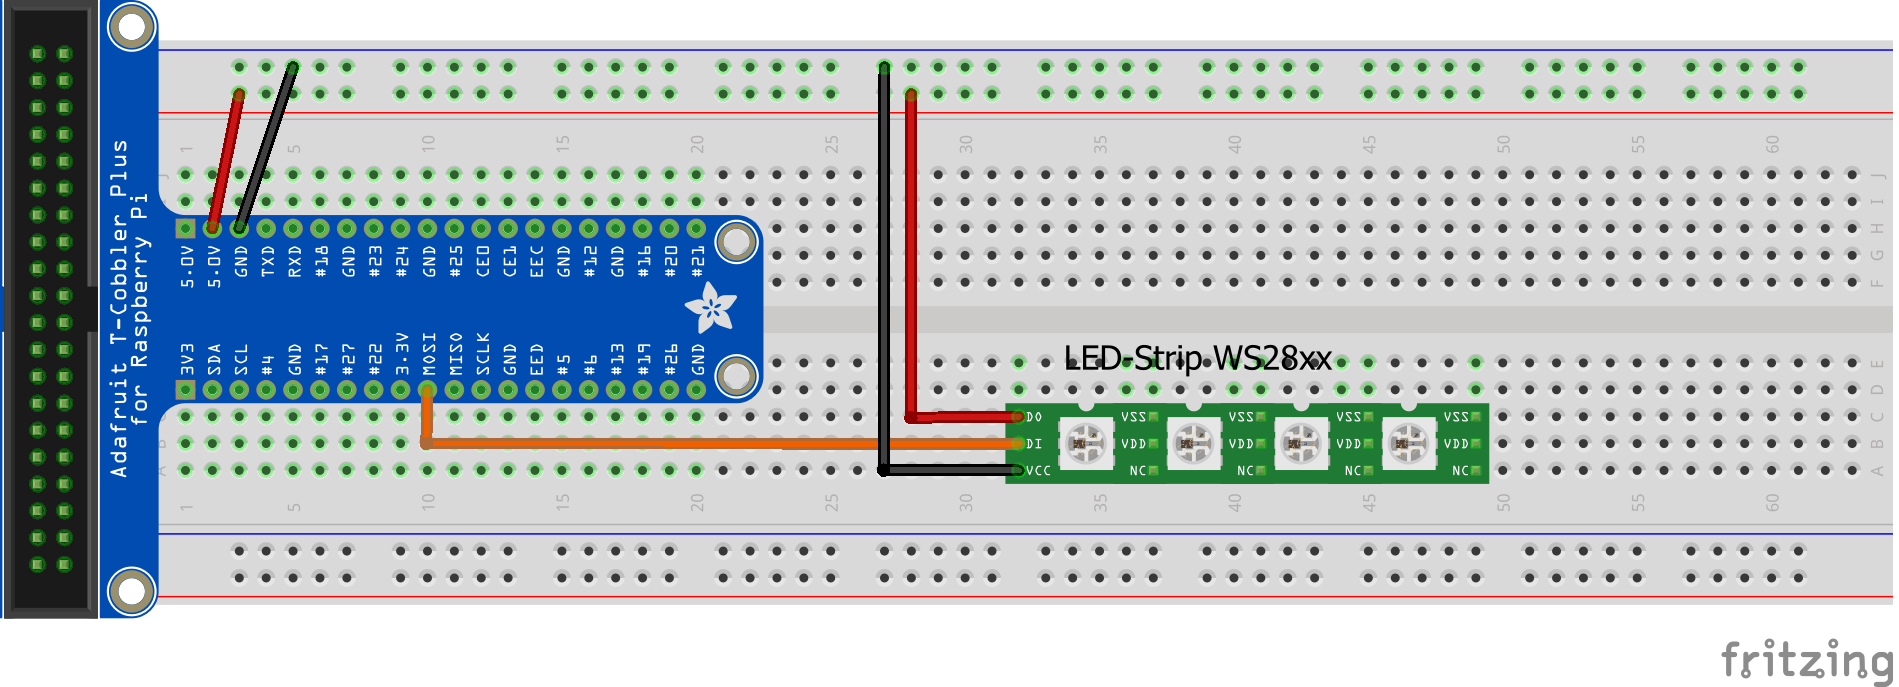
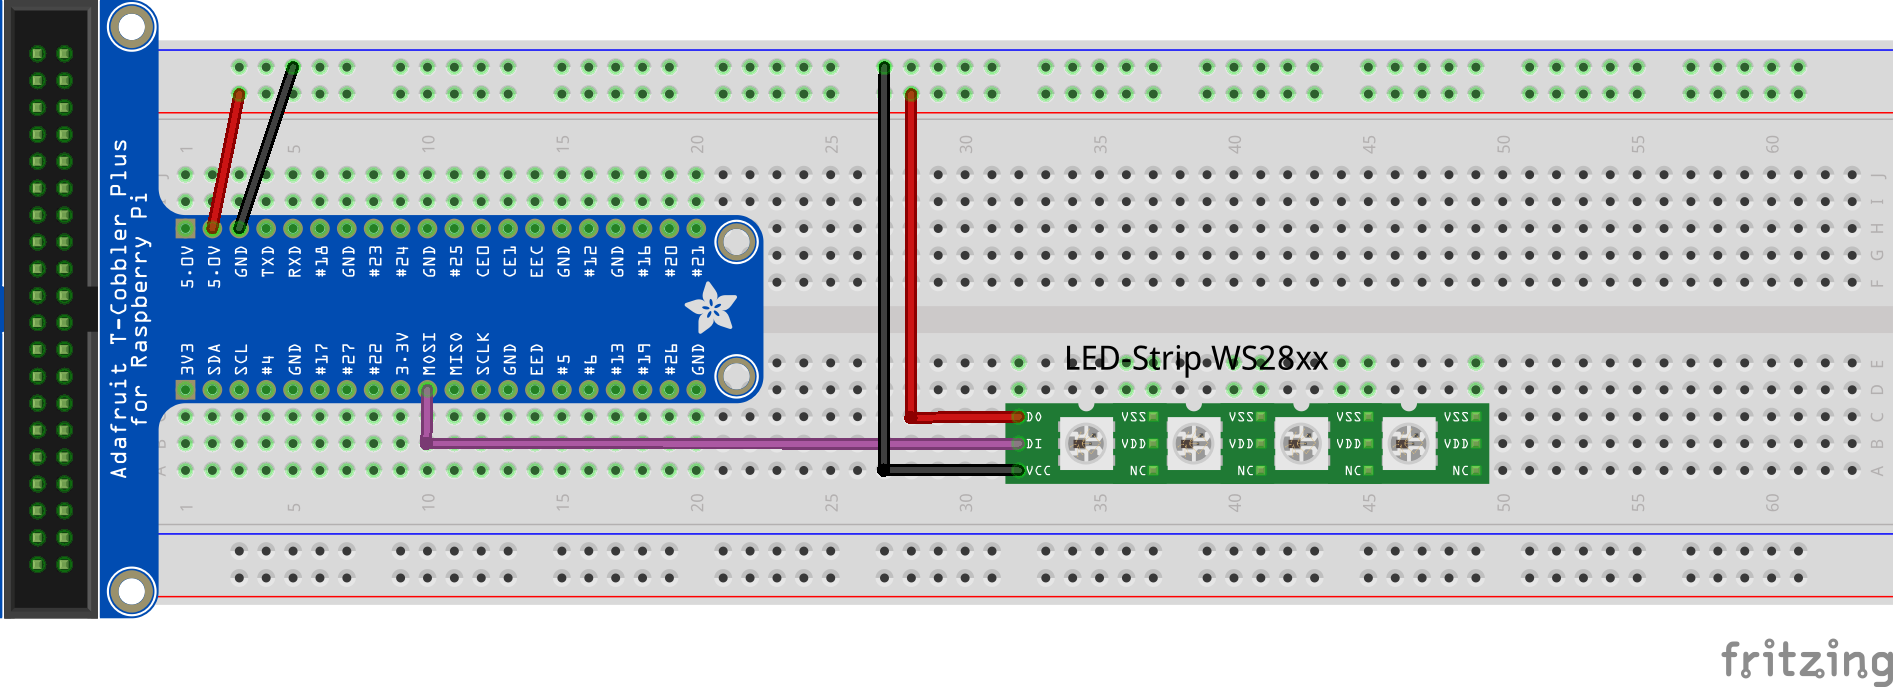
implemented hw pictures to LED Strip and LED Matrix

Changed region(s): [[0.2175, 0.5502, 0.5592, 0.6725], [0.5592, 0.4891, 0.7146, 0.5502]]

diff --git a/content/documentation/device-examples/LEDStrip.md b/content/documentation/device-examples/LEDStrip.md
@@ -18,41 +18,49 @@ Check the SPI Address. Default is "SPI0 MOSI" Pin (#19).
 ### Layout
 ![LEDStrip Layout](/assets/documentation/device-examples/Layout-LEDStrip.png)
 
+{{< gallery >}}
+{{< figure link="/assets/documentation/device-examples/pictures/LED-Strip4-LED-Breadboard.png" caption="LED Strip 4 LED Breadboard" caption-position="center" caption-effect="fade" >}}
+{{< figure link="/assets/documentation/device-examples/pictures/LED-Strip4-LED.png" caption="LED Strip 4 LED" caption-position="center" caption-effect="fade" >}}
+{{< /gallery >}}
+{{< load-photoswipe >}}
+
 ### Code
 A simple example on how to use the LEDStrip-Class from the [Hardware-Catalog](https://github.com/Pi4J/pi4j-example-components) :
 ```
 // Initialize the RGB
-int pixels = 10;
-final var ledstrip = new LEDStrip(pi4j, pixels, 127);
+int pixels = 4;
+final var ledstrip = new LEDStrip(pi4j, pixels, 0.5);
 
 //set them all off, so nothing is shining
-logInfo("Starting with setting all leds off");
+System.out.println("Starting with setting all leds off");
 ledstrip.allOff();
 
-logInfo("setting the leds to RED");
-ledstrip.setStripColor(PixelColor.RED);
+System.out.println("setting the LEDs to RED");
+ledstrip.setStripColor(LEDStrip.PixelColor.RED);
 ledstrip.render();
 delay(3000);
 
-logInfo("setting the leds to Light Blue");
-ledstrip.setStripColor(PixelColor.LIGHT_BLUE);
+System.out.println("setting the LEDs to Light Blue");
+ledstrip.setStripColor(LEDStrip.PixelColor.LIGHT_BLUE);
 ledstrip.render();
 delay(3000);
 
-logInfo("setting the first led to Purple");
-ledstrip.setPixelColor(0, PixelColor.PURPLE);
+System.out.println("setting the first led to Purple");
+ledstrip.setPixelColor(0, LEDStrip.PixelColor.PURPLE);
 ledstrip.render();
 delay(3000);
 
-logInfo("setting the brightness to full and just show the first led as White");
+System.out.println("setting the brightness to full and just show the first led as White");
 ledstrip.allOff();
-ledstrip.setBrightness(255);
-ledstrip.setPixelColor(0, PixelColor.WHITE);
+ledstrip.setBrightness(1);
+ledstrip.setPixelColor(0, LEDStrip.PixelColor.WHITE);
 ledstrip.render();
 delay(3000);
 
 //finishing and closing
 ledstrip.close();
+System.out.println("closing the app");
+System.out.println("Color "+ ledstrip.getPixelColor(0));
 ```
 
 ### Further application

diff --git a/content/documentation/device-examples/LEDMatrix.md b/content/documentation/device-examples/LEDMatrix.md
@@ -16,11 +16,17 @@ Check the SPI Address. Default is "SPI0 MOSI" Pin (#19).
 ### Layout
 ![LEDMatrix Layout](/assets/documentation/device-examples/Layout-LEDMatrix.png)
 
+{{< gallery >}}
+{{< figure link="/assets/documentation/device-examples/pictures/LED-MatrixBreadboard.png" caption="LED Matrix Breadboard" caption-position="center" caption-effect="fade" >}}
+{{< figure link="/assets/documentation/device-examples/pictures/LED-Matrix.png" caption="LED Matrix" caption-position="center" caption-effect="fade" >}}
+{{< /gallery >}}
+{{< load-photoswipe >}}
+
 ### Code
 A simple example on how to use the LEDMatrix-Class from the [Hardware-Catalog](https://github.com/Pi4J/pi4j-example-components) :
 ```
 int Rows = 3;
-int Columns = 3;
+int Columns = 4;
 double brightness = 0.5;
 
 System.out.println("Initialising the matrix");
